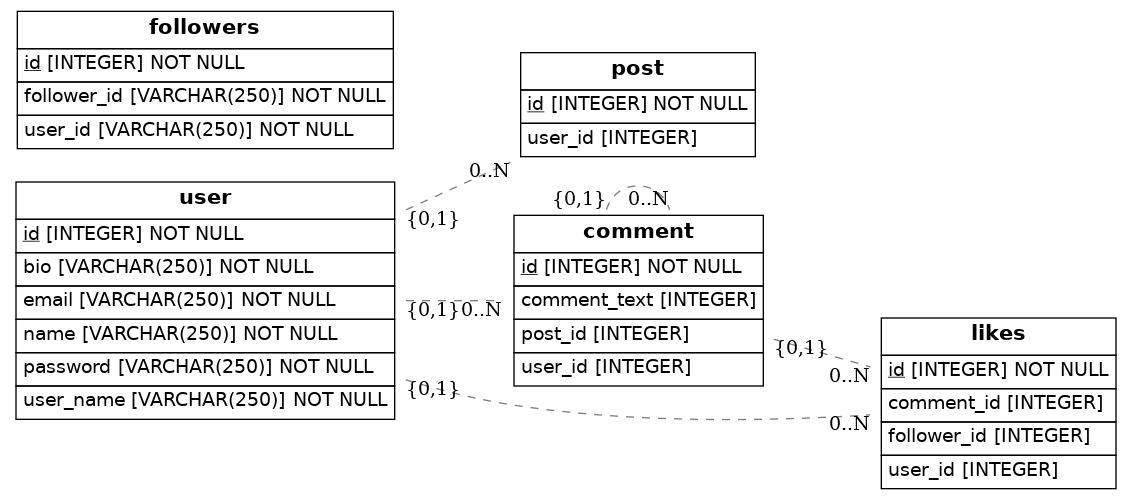
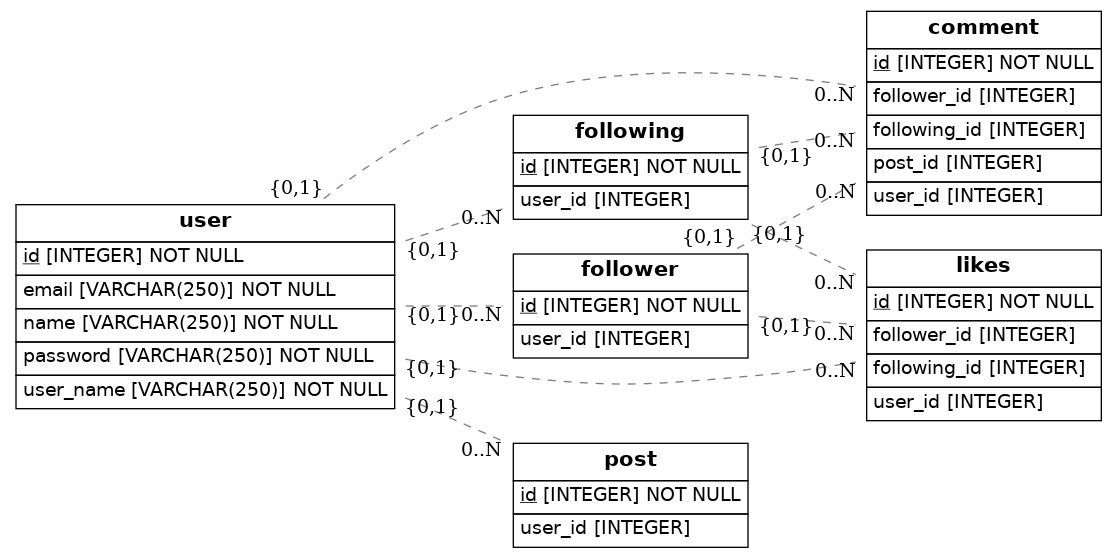
Revisado y corregido

Changed region(s): [[0.0, 0.0, 1.0, 0.992], [0.0, 0.0, 0.3653, 0.3006]]

diff --git a/src/models.py b/src/models.py
@@ -15,14 +15,17 @@ class User(Base):
     user_name = Column(String(250), nullable=False)
     email = Column(String(250), nullable=False)
     password = Column(String(250), nullable=False)
-    bio = Column(String(250), nullable=False)
     
 
-class Followers(Base):
-    __tablename__ = 'followers'
+class Follower(Base):
+    __tablename__ = 'follower'
     id = Column(Integer, primary_key=True)
-    follower_id = Column(String(250), nullable=False)
-    user_id = Column(String(250), nullable=False)
+    user_id = Column(Integer, ForeignKey('user.id'))
+
+class Following(Base):
+    __tablename__ = 'following'
+    id = Column(Integer, primary_key=True)
+    user_id = Column(Integer, ForeignKey('user.id'))
 
 class Post(Base):
     __tablename__ = 'post'
@@ -32,16 +35,17 @@ class Post(Base):
 class Comment(Base):
     __tablename__ = 'comment'
     id = Column(Integer, primary_key=True)
-    comment_text = Column(Integer, ForeignKey('comment.id'))
     user_id = Column(Integer, ForeignKey('user.id'))
+    following_id = Column(Integer, ForeignKey('following.id'))
+    follower_id = Column(Integer, ForeignKey('follower.id'))
     post_id = Column(Integer, ForeignKey('post_id.id'))
 
 class Likes(Base):
     __tablename__ = 'likes'
     id = Column(Integer, primary_key=True)
+    following_id = Column(Integer, ForeignKey('following.id'))
     follower_id = Column(Integer, ForeignKey('follower.id'))
     user_id = Column(Integer, ForeignKey('user.id'))
-    comment_id = Column(Integer, ForeignKey('comment.id'))
 
 
     def to_dict(self):
